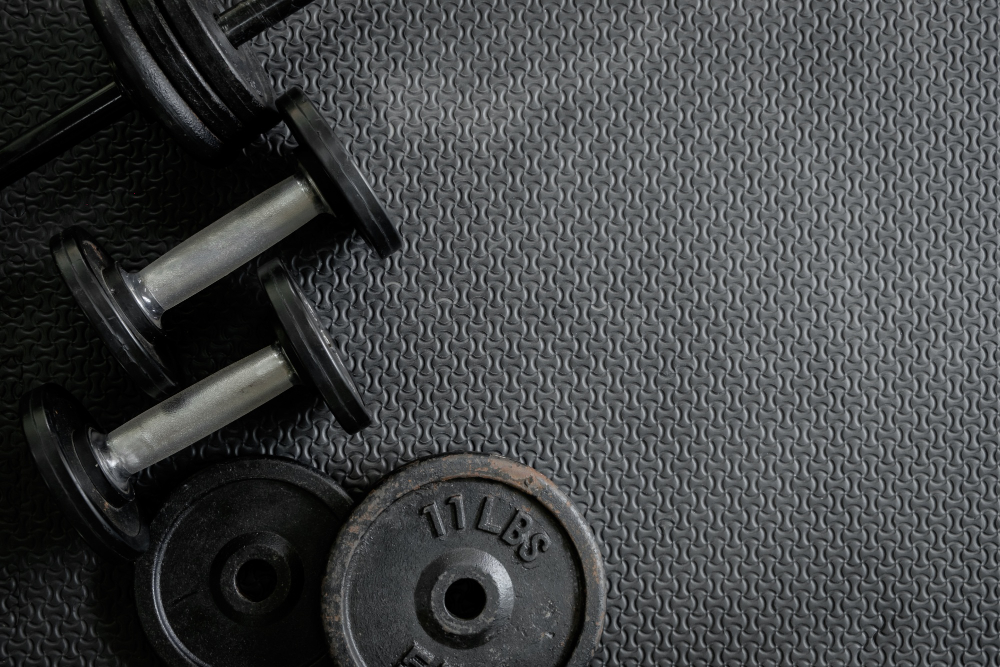
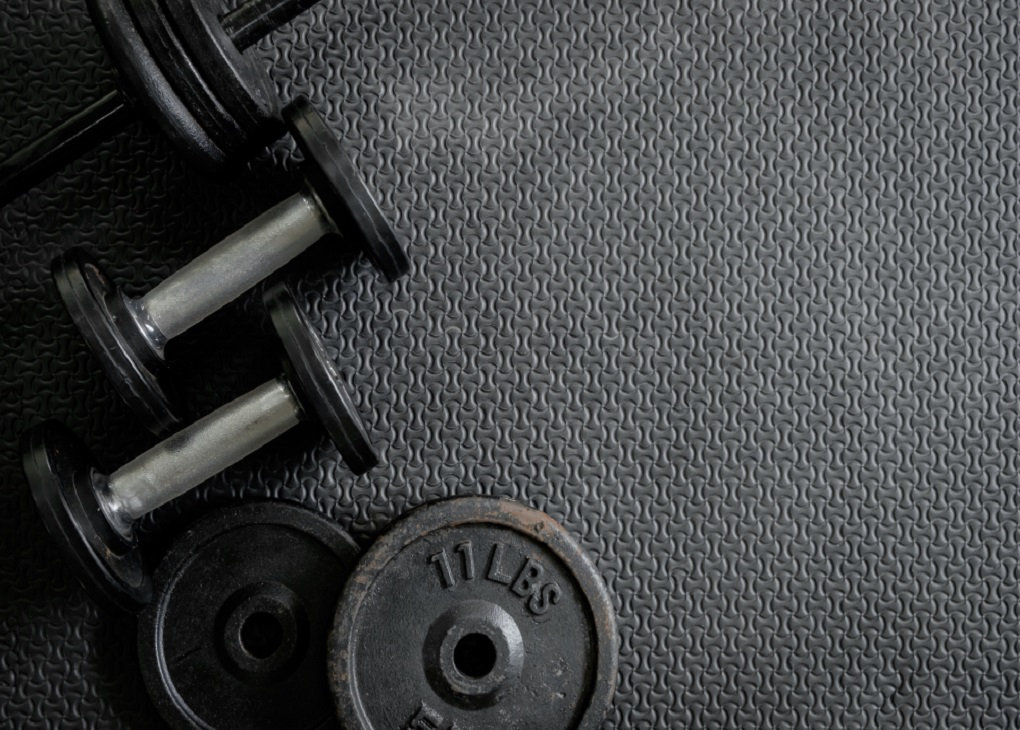
correcao update treino

diff --git a/Codigo fonte/src/main/java/View/TelaPrincipal.java b/Codigo fonte/src/main/java/View/TelaPrincipal.java
@@ -17,6 +17,8 @@ public class TelaPrincipal extends javax.swing.JFrame {
 
     public TelaPrincipal() {
         initComponents();
+        System.out.println("WIDTH: " + jLabel2.getWidth());
+        System.out.println("HEIHT: " + jLabel2.getHeight());
     }
 
     public void limparCamposCliente() {
@@ -57,8 +59,8 @@ public class TelaPrincipal extends javax.swing.JFrame {
         jTextFieldNomeExercicio.setText("");
         jComboBoxGrupoMuscExercicio.setSelectedIndex(0);
     }
-    
-    public void limparCamposTreinos(){
+
+    public void limparCamposTreinos() {
         jComboBoxTreinoExercicios.setSelectedIndex(0);
         jComboBoxOrdem.setSelectedIndex(0);
         jComboBoxInstrutorTreino.setSelectedIndex(0);
@@ -68,7 +70,7 @@ public class TelaPrincipal extends javax.swing.JFrame {
         jTextFieldTipoTreino.setText("");
         jTextAreaObservacaoTreino.setText("");
         jDateChooserTrocaTreino.setCalendar(null);
-        
+
     }
 
     //Cliente
@@ -368,7 +370,6 @@ public class TelaPrincipal extends javax.swing.JFrame {
     }
 
     //Treino
-
     public JButton getjButtonDesativaTreino() {
         return jButtonDesativaTreino;
     }
@@ -379,8 +380,8 @@ public class TelaPrincipal extends javax.swing.JFrame {
 
     public JButton getjButtonEditarTreino() {
         return jButtonEditarTreino;
-    }    
-    
+    }
+
     public JPanel getCRUDTreino() {
         return CRUDTreino;
     }
@@ -408,9 +409,6 @@ public class TelaPrincipal extends javax.swing.JFrame {
     public JTable getjTableListTreinosInativos() {
         return jTableListTreinosInativos;
     }
-    
-    
-    
 
     public JTabbedPane getjTabbedPaneClientes() {
         return jTabbedPaneClientes;
@@ -467,10 +465,10 @@ public class TelaPrincipal extends javax.swing.JFrame {
     public JDateChooser getjDateChooserTrocaTreino() {
         return jDateChooserTrocaTreino;
     }
-    
+
     public JButton getjButtonPesquisarTreinoCli() {
         return jButtonPesquisarTreinoCli;
-    }    
+    }
 
     public JTextField getjTextFieldPesquisarTreinoCli() {
         return jTextFieldPesquisarTreinoCli;
@@ -495,9 +493,6 @@ public class TelaPrincipal extends javax.swing.JFrame {
     public JTextField getjTextFieldPesquisarTreino() {
         return jTextFieldPesquisarTreinoAtivo;
     }
-    
-    
-    
 
     //Equipamento
     public JButton getjButtonSalvarEquipamento() {
@@ -764,7 +759,7 @@ public class TelaPrincipal extends javax.swing.JFrame {
         treinosInativos = new javax.swing.JPanel();
         jScrollPane9 = new javax.swing.JScrollPane();
         jTableListTreinosInativos = new javax.swing.JTable();
-        jTableListTreinosAtivos.getTableHeader().setEnabled(false);
+        jTableListTreinosInativos.getTableHeader().setEnabled(false);
         jButtonAtivarTreino = new javax.swing.JButton();
         jTextFieldPesquisarTreinoAtivo = new javax.swing.JTextField();
         jButtonPesquisarTreinoAtivo = new javax.swing.JButton();
@@ -830,7 +825,7 @@ public class TelaPrincipal extends javax.swing.JFrame {
 
         jLabel2.setIcon(new javax.swing.ImageIcon(getClass().getResource("/img/fundo.jpg"))); // NOI18N
         jPanelInicio.add(jLabel2);
-        jLabel2.setBounds(10, 30, 1000, 670);
+        jLabel2.setBounds(0, 0, 1020, 730);
 
         jTabbedPane1.addTab("Inicio", jPanelInicio);
 
@@ -2308,6 +2303,8 @@ public class TelaPrincipal extends javax.swing.JFrame {
 
         listTreino.setBorder(javax.swing.BorderFactory.createTitledBorder("Listar Treinos"));
 
+        jTableListTreinosAtivos.getTableHeader().setEnabled(false);
+
         jTableListTreinosAtivos.setModel(new javax.swing.table.DefaultTableModel(
             new Object [][] {
 
@@ -2343,10 +2340,7 @@ public class TelaPrincipal extends javax.swing.JFrame {
         treinosAtivos.setLayout(treinosAtivosLayout);
         treinosAtivosLayout.setHorizontalGroup(
             treinosAtivosLayout.createParallelGroup(javax.swing.GroupLayout.Alignment.LEADING)
-            .addGroup(treinosAtivosLayout.createSequentialGroup()
-                .addContainerGap()
-                .addComponent(jScrollPane8, javax.swing.GroupLayout.DEFAULT_SIZE, 987, Short.MAX_VALUE)
-                .addContainerGap())
+            .addComponent(jScrollPane8, javax.swing.GroupLayout.DEFAULT_SIZE, 999, Short.MAX_VALUE)
             .addGroup(treinosAtivosLayout.createParallelGroup(javax.swing.GroupLayout.Alignment.LEADING)
                 .addGroup(treinosAtivosLayout.createSequentialGroup()
                     .addContainerGap(380, Short.MAX_VALUE)
@@ -2407,10 +2401,7 @@ public class TelaPrincipal extends javax.swing.JFrame {
                 .addComponent(jButtonAtivarTreino, javax.swing.GroupLayout.PREFERRED_SIZE, javax.swing.GroupLayout.DEFAULT_SIZE, javax.swing.GroupLayout.PREFERRED_SIZE)
                 .addContainerGap(457, Short.MAX_VALUE))
             .addGroup(treinosInativosLayout.createParallelGroup(javax.swing.GroupLayout.Alignment.LEADING)
-                .addGroup(treinosInativosLayout.createSequentialGroup()
-                    .addContainerGap()
-                    .addComponent(jScrollPane9, javax.swing.GroupLayout.DEFAULT_SIZE, 987, Short.MAX_VALUE)
-                    .addContainerGap()))
+                .addComponent(jScrollPane9, javax.swing.GroupLayout.Alignment.TRAILING, javax.swing.GroupLayout.DEFAULT_SIZE, 999, Short.MAX_VALUE))
         );
         treinosInativosLayout.setVerticalGroup(
             treinosInativosLayout.createParallelGroup(javax.swing.GroupLayout.Alignment.LEADING)

diff --git a/Codigo fonte/src/main/java/Controller/TreinoController.java b/Codigo fonte/src/main/java/Controller/TreinoController.java
@@ -265,6 +265,7 @@ public class TreinoController {
                 }
             }
             util.setColumnWidths(telaPrincipal.getjTableListTreinos(), 40, 450, 450, 50, 50, 200, 70);
+            util.setColumnWidths(telaPrincipal.getjTableListTreinosInativos(), 40, 450, 450, 50, 50, 200, 70);
         }
     }
 
@@ -386,9 +387,11 @@ public class TreinoController {
                 String series = treinoInfo.getjTextFieldSeriesTreino().getText();
                 int repeticao = Integer.parseInt(treinoInfo.getjTextFieldRepeticaoTreino().getText());
                 String tipoTreino = treinoInfo.getjTextFieldTipoTreino().getText();
-                String observacao = treinoInfo.getjTextAreaObservacaoTreino().getText();                
+                String observacao = treinoInfo.getjTextAreaObservacaoTreino().getText();
                 Funcionario func = daoFuncionario.getFuncionario(funcID);
                 Exercicios exercicio = daoExercicio.getExercicios(ExercID);
+
+                System.out.println("NOVO: TREINO: " + idT + "FUNC: " + funcID + " CLI: " + cli.getId());
                 if (daoTreino.editarTreino(new Treino(idT, Integer.parseInt(ordem), repeticao, carga, series,
                         tipoTreino, observacao, func, cli, exercicio, dataTroca))) {
                     JOptionPane.showMessageDialog(null, "Treino atualizado Alterado "

diff --git a/Codigo fonte/src/main/java/Model/TreinoDAO.java b/Codigo fonte/src/main/java/Model/TreinoDAO.java
@@ -240,7 +240,7 @@ public class TreinoDAO {
             Cliente cli = daoCliente.getCliente(fkCliente);
             Exercicios exerc = daoExercicio.getExercicios(fkExercicio);
             Funcionario func = daoFunc.getFuncionario(fkFunc);
-            Treino treino = new Treino(ordem, repeticao, carga, series, tipoTreino, observacao, func, cli, exerc, dataTroca);
+            Treino treino = new Treino(id, ordem, repeticao, carga, series, tipoTreino, observacao, func, cli, exerc, dataTroca);
             return treino;
         } catch (SQLException e) {
             JOptionPane.showMessageDialog(null, "Erro código: " + e.getErrorCode());
